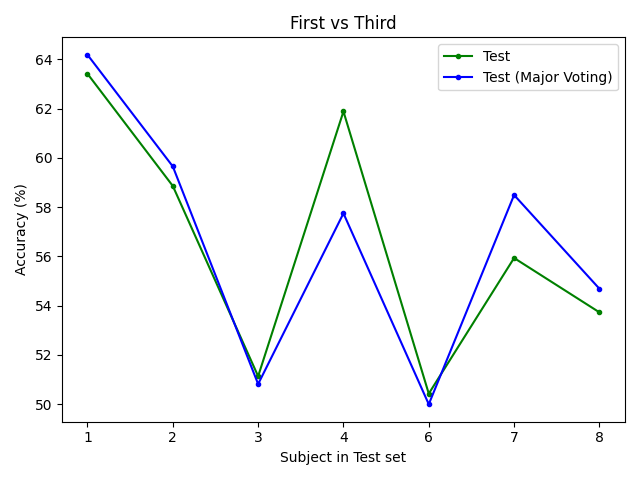
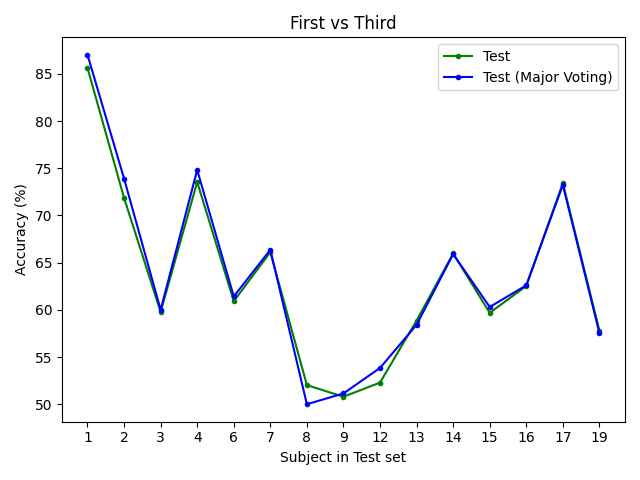
cnn model updated

diff --git a/models/cnn_model.py b/models/cnn_model.py
@@ -7,6 +7,7 @@ class Net(nn.Module):
     def __init__(self, config, kernel_size):
         super(Net, self).__init__()
         k1 = kernel_size
+        print(k1)
         if config.apply_gauss:
            in_channels = 2*config.mapping_size
         elif config.transform == 'stockwell':
@@ -17,6 +18,10 @@ class Net(nn.Module):
            in_channels = 1
            h_shape = 20
            w_shape = config.window_len
+        elif config.transform == 'nothing':
+           h_shape = config.n_channels
+           w_shape = config.window_len
+           in_channels = 1
         else:
            w_shape = config.n_channels
            h_shape = config.freq_cut
@@ -31,38 +36,39 @@ class Net(nn.Module):
         w_shape = ((w_shape-kernel_size)+1)
 
         self.conv_layer2 = nn.Sequential(nn.Conv2d(60, 80, kernel_size=(k1,kernel_size)),
-                           nn.BatchNorm2d(80),
-                           nn.ReLU(inplace=True),nn.AvgPool2d(2))
+#                           nn.BatchNorm2d(80),
+                           nn.ReLU(inplace=True))
 
-        h_shape = ((h_shape-k1) + 1)//2
-        w_shape = ((w_shape-kernel_size) + 1)//2
+        h_shape = ((h_shape-k1) + 1)
+        w_shape = ((w_shape-kernel_size) + 1)
 
         self.conv_layer3 = nn.Sequential(nn.Conv2d(80, 80, kernel_size=(k1,kernel_size)),
-                           nn.BatchNorm2d(80),
+#                           nn.BatchNorm2d(80),
                            nn.ReLU(inplace=True),
+                           nn.Dropout(0.5),
                            nn.AvgPool2d(2))
 
         h_shape = ((h_shape-k1) + 1)//2
         w_shape = ((w_shape-kernel_size) + 1)//2
 
 
-        '''
-        self.conv_layer4 = nn.Sequential(nn.Conv2d(180, 180, kernel_size=(k1,kernel_size)),
-                           nn.BatchNorm2d(180),
+        self.conv_layer4 = nn.Sequential(nn.Conv2d(80, 80, kernel_size=(k1,kernel_size)),
+                           nn.BatchNorm2d(80),
+                           nn.Dropout(0.5),
                            nn.ReLU(inplace=True),nn.AvgPool2d(2))
 
         h_shape = ((h_shape-k1) + 1)//2
         w_shape = ((w_shape-kernel_size) + 1)//2
-        '''
+
         print(f'H: {h_shape} W:{w_shape}')
         self.fc1 = nn.Linear(80 * h_shape * w_shape, 1)
         self.relu    = nn.ReLU(inplace=True)
 
     def forward(self, x):
-        print(x.shape)
-        x   = self.conv_layer1(x.unsqueeze(1))
+        x   = self.conv_layer1(x)
         x   = self.conv_layer2(x)
         x   = self.conv_layer3(x)
+        x   = self.conv_layer4(x)
         x   = x.reshape(x.shape[0],x.shape[1]*x.shape[2]*x.shape[3])
         out = self.fc1(x)
         return out

diff --git a/csp_test.py b/csp_test.py
@@ -2,6 +2,7 @@ import mne
 import h5py
 import argparse
 import numpy as np
+from utils.utils import stockwell
 from mne.decoding import CSP
 from sklearn.neural_network import MLPClassifier
 from sklearn.discriminant_analysis import QuadraticDiscriminantAnalysis as QDA
@@ -37,12 +38,22 @@ with h5py.File(file_path, 'r',rdcc_nbytes=1024**2*4000,rdcc_nslots=1e7) as file:
 
 
 # Define and apply CSP
-n_components = 20
+n_components = 10
 csp = CSP(n_components=n_components, reg=None, log=None, norm_trace=False, transform_into='csp_space')
 csp.fit(train_data, train_labels)
 X_train_csp = csp.transform(train_data)
+fmax_samples = int(config.fmax*config.sig_time)
+data_shape = (X_train_csp.shape[0], n_components, fmax_samples+1, config.window_len)
+X_train_tra = np.zeros(data_shape)
+for i in range(X_train_csp.shape[0]):
+    X_train_tra[i] = stockwell(X_train_csp[i])
+
 X_test_csp  = csp.transform(test_data)
-print(X_train_csp.shape)
+data_shape = (X_test_csp.shape[0], n_components, fmax_samples+1, config.window_len)
+X_test_tra  = np.zeros(data_shape)
+for i in range(X_test_csp.shape[0]):
+    
+print(X_train_csp.shape, type(X_train_csp))
 f_data = h5py.File('./data/train_1d_csp.h5', "w")
 f_data.create_dataset("data",      data = X_train_csp  )
 f_data.create_dataset("label",     data = train_labels )

diff --git a/main.py b/main.py
@@ -20,6 +20,7 @@ parser.add_argument('--n_epochs', default=500, type=int, help='Number of epochs'
 parser.add_argument('--num_workers', default=4, type=int, help='Test Batch Size')
 parser.add_argument('--lr', default=0.001,type=float,help='Learning Rate')
 parser.add_argument('--wd', default=0.01,type=float,help='Weight Decay')
+parser.add_argument('--subject', default='',type=str, help='Target Subject')
 parser.add_argument('--transform', default="nothing", type=str, help='Apply transform (e.g., stft, stockwell)')
 args = parser.parse_args()
 
@@ -102,7 +103,7 @@ for epoch in range(1,args.n_epochs):
     print('\nEpoch: {}/{}'.format(epoch,args.n_epochs))
     clean_acc = train()
 
-    if config.apply_valid_set:
+    if config.apply_valid_set == 'all':
        clean_acc,_ = test(net, validloader, config, "valid")
 #    else:
  #      test(net, testloader, config, "valid")

diff --git a/mat2h5Conversion.py b/mat2h5Conversion.py
@@ -15,15 +15,17 @@ config.train_subjects = np.setdiff1d(config.all_subjects, config.test_subjects)
 all_trials   =  np.array(range(0,config.n_trial))
 test_trials  = all_trials
 
-if config.apply_valid_set:
+if config.apply_valid_set == 'all':
    valid_sub = np.random.choice(config.train_subjects,3,replace=False)
    config.valid_subjects = np.array(valid_sub)
    config.train_subjects = np.setdiff1d(config.train_subjects, config.valid_subjects)
    valid_trials = all_trials
    print(f'Valid Subjects: {config.valid_subjects}')
    data_sets = ['train', 'test', 'valid']
-else:
+elif config.apply_valid_set == 'double':
    data_sets = ['train', 'test']
+elif config.apply_valid_set == 'single':
+   data_sets = ['train']
 
 print(f'Test Subjects:  {config.test_subjects}')
 print(f'Train Subjects: {config.train_subjects}')

diff --git a/utils/utils.py b/utils/utils.py
@@ -120,9 +120,9 @@ def get_outputs(net, inputs, config, transformer=None):
     elif config.model_type == 'mlp':
        outputs = net(inputs.float()).squeeze(1)
     else:
-       outputs = net(inputs.float())
-    if config.model_type == 'eegnet':
-       outputs = outputs.squeeze(1)
+       outputs = net(inputs.float().unsqueeze(1))
+    #if config.model_type == 'eegnet':
+    outputs = outputs.squeeze(1)
     return outputs
 
 def count_num_classes(dataloader, label):

diff --git a/plot_test_acc.py b/plot_test_acc.py
@@ -10,7 +10,7 @@ from sklearn import metrics
 plot_csp = False
 
 config = Config()
-config.all_subjects    = np.array([1,2,3,4,6,7,8])
+#config.all_subjects    = np.array([1,2,3,4,6,7,8])
 color_codes = ['-g.', '-b.', '-r.']
 if config.apply_valid_set == 'all':
    datasets = ['train','test','valid']

diff --git a/utils/config.py b/utils/config.py
@@ -64,7 +64,7 @@ class Config:
           self.valid_subjects  = []
           self.test_subjects   = []
           if self.realVSFake:
-             self.conditions      = [0,2]
+             self.conditions      = [0,1,2,3]
           else:
              self.conditions      = [2,3]
 
